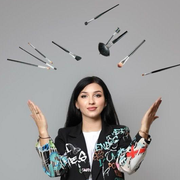
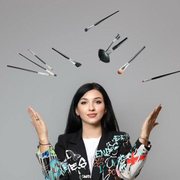
Ikona: razlicica s copici (izbira Darje); potrditveno okno: varnostne besedilne rezerve v 3 jezikih

diff --git a/rezervacija.html b/rezervacija.html
@@ -14,7 +14,7 @@
 <meta property="og:title" content="Rezervacija — Solopova Makeup">
 <meta property="og:description" content="Rezervirajte termin za ličenje, trepalnice, obrvi ali lase v Mariboru.">
 <meta property="og:url" content="https://solopovamakeup.si/rezervacija.html">
-<link rel="stylesheet" href="assets/style.css?v=20261010a">
+<link rel="stylesheet" href="assets/style.css?v=20261010c">
 </head>
 <body>
 <header class="site"><div class="wrap nav">
@@ -74,7 +74,7 @@
   <div data-i18n="foot_note"></div>
   <div><a class="link" href="pogoji.html">Splošni pogoji</a> · <a class="link" href="zasebnost.html">Zasebnost</a> · <a class="link" href="https://www.instagram.com/solopova.makeup/" target="_blank" rel="noopener">Instagram</a> · <a class="link" href="https://wa.me/38669900769" target="_blank" rel="noopener">WhatsApp</a></div>
 </div></footer>
-<script src="assets/i18n.js?v=20261010a"></script>
+<script src="assets/i18n.js?v=20261010c"></script>
 <script>
 var SERVICES = [
  {id:"porocno",dur:90,slug:"porocno-licenje", sl:"Poročno ličenje", en:"Bridal makeup", ru:"Свадебный макияж", price:"90 €", img:"assets/img/porocno-booking.jpg"},
@@ -192,8 +192,14 @@ function showModal(ok,msg){
   var ico=document.getElementById("bm-ico");
   ico.textContent = ok ? "\u2713" : "!";
   ico.className = "modal-ico" + (ok ? "" : " err");
-  document.getElementById("bm-title").textContent = ok ? (t.book_ok_title||"") : (t.book_fail_title||"");
-  document.getElementById("bm-text").textContent = ok ? (t.book_ok_text||"") : (t.book_fail_text||"");
+  var F={
+    sl:{t:"Rezervacija poslana!",x:"Hvala! Prejela sem tvojo zahtevo za:",n:"Kontaktirala te bom za potrditev termina. \u010ce se predomisli\u0161, mi pi\u0161i na WhatsApp.",c:"Zapri",ft:"Nekaj je \u0161lo narobe",fx:"Zahteve nismo mogli poslati samodejno. Pi\u0161i nam na WhatsApp \u2014 uredimo takoj.",w:"Odpri WhatsApp"},
+    en:{t:"Booking request sent!",x:"Thank you! I received your request for:",n:"I will contact you to confirm the appointment. If you change your mind, just message me on WhatsApp.",c:"Close",ft:"Something went wrong",fx:"We could not send your request automatically. Message us on WhatsApp \u2014 we will sort it right away.",w:"Open WhatsApp"},
+    ru:{t:"\u0417\u0430\u044f\u0432\u043a\u0430 \u043e\u0442\u043f\u0440\u0430\u0432\u043b\u0435\u043d\u0430!",x:"\u0421\u043f\u0430\u0441\u0438\u0431\u043e! \u042f \u043f\u043e\u043b\u0443\u0447\u0438\u043b\u0430 \u0432\u0430\u0448\u0443 \u0437\u0430\u044f\u0432\u043a\u0443 \u043d\u0430:",n:"\u0421\u0432\u044f\u0436\u0443\u0441\u044c \u0441 \u0432\u0430\u043c\u0438 \u0434\u043b\u044f \u043f\u043e\u0434\u0442\u0432\u0435\u0440\u0436\u0434\u0435\u043d\u0438\u044f \u0432\u0440\u0435\u043c\u0435\u043d\u0438. \u0415\u0441\u043b\u0438 \u043f\u0435\u0440\u0435\u0434\u0443\u043c\u0430\u0435\u0442\u0435 \u2014 \u043d\u0430\u043f\u0438\u0448\u0438\u0442\u0435 \u043c\u043d\u0435 \u0432 WhatsApp.",c:"\u0417\u0430\u043a\u0440\u044b\u0442\u044c",ft:"\u0427\u0442\u043e-\u0442\u043e \u043f\u043e\u0448\u043b\u043e \u043d\u0435 \u0442\u0430\u043a",fx:"\u041d\u0435 \u0443\u0434\u0430\u043b\u043e\u0441\u044c \u043e\u0442\u043f\u0440\u0430\u0432\u0438\u0442\u044c \u0437\u0430\u044f\u0432\u043a\u0443 \u0430\u0432\u0442\u043e\u043c\u0430\u0442\u0438\u0447\u0435\u0441\u043a\u0438. \u041d\u0430\u043f\u0438\u0448\u0438\u0442\u0435 \u0432 WhatsApp.",w:"\u041e\u0442\u043a\u0440\u044b\u0442\u044c WhatsApp"}
+  };
+  var L=curLang(), f=F[L]||F.sl;
+  document.getElementById("bm-title").textContent = ok ? (t.book_ok_title || f.t) : (t.book_fail_title || f.ft);
+  document.getElementById("bm-text").textContent = ok ? (t.book_ok_text || f.x) : (t.book_fail_text || f.fx);
   var ul=document.getElementById("bm-list"); ul.innerHTML="";
   if(ok && sel && sel.length){
     sel.forEach(function(sv){ var li=document.createElement("li"); li.textContent="\u2022 "+sv[curLang()]+" ("+priceText(sv)+")"; ul.appendChild(li); });
@@ -201,15 +207,15 @@ function showModal(ok,msg){
     if(tm) ul.appendChild(mRow(t.tm,tm));
     if(nm) ul.appendChild(mRow(t.nm,nm));
   }
-  document.getElementById("bm-note").textContent = ok ? (t.book_ok_note||"") : "";
+  document.getElementById("bm-note").textContent = ok ? (t.book_ok_note || f.n) : "";
   var wa=document.getElementById("bm-wa");
   if(ok){ wa.style.display="none"; }
   else {
     wa.style.display="inline-block";
-    wa.textContent = t.book_wa_btn || "WhatsApp";
+    wa.textContent = t.book_wa_btn || f.w;
     wa.setAttribute("href","https://wa.me/"+WA+"?text="+encodeURIComponent(msg||""));
   }
-  document.getElementById("bm-close").textContent = t.book_ok_close || "OK";
+  document.getElementById("bm-close").textContent = t.book_ok_close || f.c;
   m.hidden=false;
   document.body.style.overflow="hidden";
 }

diff --git a/index.html b/index.html
@@ -22,7 +22,7 @@
 {"@context":"https://schema.org","@type":"BeautySalon","name":"Solopova Makeup","description":"Profesionalno ličenje, trepalnice, obrvi in podaljševanje las v Mariboru.","url":"https://solopovamakeup.si/","image":"https://solopovamakeup.si/assets/img/daria-hero.jpg","telephone":"+38669900769","email":"solopova.makeup@gmail.com","address":{"@type":"PostalAddress","streetAddress":"Vodnikov trg 1","postalCode":"2000","addressLocality":"Maribor","addressCountry":"SI"},"areaServed":["Maribor","Ptuj","Slovenija"],"sameAs":["https://www.instagram.com/solopova.makeup/"],"priceRange":"€€","makesOffer":[{"@type":"Offer","itemOffered":{"@type":"Service","name":"Ličenje"}},{"@type":"Offer","itemOffered":{"@type":"Service","name":"Laminacija trepalnic in obrvi"}},{"@type":"Offer","itemOffered":{"@type":"Service","name":"Podaljševanje las"}},{"@type":"Offer","itemOffered":{"@type":"Service","name":"Oblikovanje pričesk"}}]}
 </script>
 
-<link rel="stylesheet" href="assets/style.css?v=20261010a">
+<link rel="stylesheet" href="assets/style.css?v=20261010c">
 </head>
 <body>
 <header class="site"><div class="wrap nav">
@@ -102,7 +102,7 @@
   <div data-i18n="foot_note">© 2026 Solopova Makeup · Maribor</div>
   <div><a class="link" href="pogoji.html">Splošni pogoji</a> · <a class="link" href="zasebnost.html">Zasebnost</a> · <a class="link" href="https://www.instagram.com/solopova.makeup/" target="_blank" rel="noopener">Instagram</a> · <a class="link" href="https://wa.me/38669900769" target="_blank" rel="noopener">WhatsApp</a></div>
 </div></footer>
-<script src="assets/i18n.js?v=20261010a"></script>
+<script src="assets/i18n.js?v=20261010c"></script>
 <script>
 (function(){
   function dragify(el){

diff --git a/galerija.html b/galerija.html
@@ -17,7 +17,7 @@
 <meta property="og:url" content="https://solopovamakeup.si/galerija.html">
 <meta property="og:image" content="https://solopovamakeup.si/assets/img/domov-lasje-1.jpg">
 <meta name="twitter:card" content="summary_large_image">
-<link rel="stylesheet" href="assets/style.css?v=20261010a">
+<link rel="stylesheet" href="assets/style.css?v=20261010c">
 </head>
 <body>
 <header class="site"><div class="wrap nav">
@@ -117,6 +117,6 @@
   <div data-i18n="foot_note">© 2026 Solopova Makeup · Maribor</div>
   <div><a class="link" href="pogoji.html">Splošni pogoji</a> · <a class="link" href="zasebnost.html">Zasebnost</a> · <a class="link" href="https://www.instagram.com/solopova.makeup/" target="_blank" rel="noopener">Instagram</a> · <a class="link" href="https://wa.me/38669900769" target="_blank" rel="noopener">WhatsApp</a></div>
 </div></footer>
-<script src="assets/i18n.js?v=20261010a"></script>
+<script src="assets/i18n.js?v=20261010c"></script>
 </body>
 </html>

diff --git a/tecaji.html b/tecaji.html
@@ -17,7 +17,7 @@
 <meta property="og:url" content="https://solopovamakeup.si/tecaji.html">
 <meta property="og:image" content="https://solopovamakeup.si/assets/img/domov-licenje-1.jpg">
 <meta name="twitter:card" content="summary_large_image">
-<link rel="stylesheet" href="assets/style.css?v=20261010a">
+<link rel="stylesheet" href="assets/style.css?v=20261010c">
 </head>
 <body>
 <header class="site"><div class="wrap nav">
@@ -106,6 +106,6 @@
   <div data-i18n="foot_note">© 2026 Solopova Makeup · Maribor</div>
   <div><a class="link" href="pogoji.html">Splošni pogoji</a> · <a class="link" href="zasebnost.html">Zasebnost</a> · <a class="link" href="https://www.instagram.com/solopova.makeup/" target="_blank" rel="noopener">Instagram</a> · <a class="link" href="https://wa.me/38669900769" target="_blank" rel="noopener">WhatsApp</a></div>
 </div></footer>
-<script src="assets/i18n.js?v=20261010a"></script>
+<script src="assets/i18n.js?v=20261010c"></script>
 </body>
 </html>

diff --git a/tecaj.html b/tecaj.html
@@ -17,7 +17,7 @@
 <meta property="og:url" content="https://solopovamakeup.si/tecaj.html">
 <meta property="og:image" content="https://solopovamakeup.si/assets/img/domov-licenje-1.jpg">
 <meta name="twitter:card" content="summary_large_image">
-<link rel="stylesheet" href="assets/style.css?v=20261010a">
+<link rel="stylesheet" href="assets/style.css?v=20261010c">
 </head>
 <body>
 <header class="site"><div class="wrap nav">
@@ -139,6 +139,6 @@
   <div data-i18n="foot_note">© 2026 Solopova Makeup · Maribor</div>
   <div><a class="link" href="pogoji.html">Splošni pogoji</a> · <a class="link" href="zasebnost.html">Zasebnost</a> · <a class="link" href="https://www.instagram.com/solopova.makeup/" target="_blank" rel="noopener">Instagram</a> · <a class="link" href="https://wa.me/38669900769" target="_blank" rel="noopener">WhatsApp</a></div>
 </div></footer>
-<script src="assets/i18n.js?v=20261010a"></script>
+<script src="assets/i18n.js?v=20261010c"></script>
 </body>
 </html>

diff --git a/storitve.html b/storitve.html
@@ -17,7 +17,7 @@
 <meta property="og:url" content="https://solopovamakeup.si/storitve.html">
 <meta property="og:image" content="https://solopovamakeup.si/assets/img/domov-lasje-1.jpg">
 <meta name="twitter:card" content="summary_large_image">
-<link rel="stylesheet" href="assets/style.css?v=20261010a">
+<link rel="stylesheet" href="assets/style.css?v=20261010c">
 </head>
 <body>
 <header class="site"><div class="wrap nav">
@@ -78,6 +78,6 @@
   <div data-i18n="foot_note">© 2026 Solopova Makeup · Maribor</div>
   <div><a class="link" href="pogoji.html">Splošni pogoji</a> · <a class="link" href="zasebnost.html">Zasebnost</a> · <a class="link" href="https://www.instagram.com/solopova.makeup/" target="_blank" rel="noopener">Instagram</a> · <a class="link" href="https://wa.me/38669900769" target="_blank" rel="noopener">WhatsApp</a></div>
 </div></footer>
-<script src="assets/i18n.js?v=20261010a"></script>
+<script src="assets/i18n.js?v=20261010c"></script>
 </body>
 </html>

diff --git a/kontakt.html b/kontakt.html
@@ -17,7 +17,7 @@
 <meta property="og:url" content="https://solopovamakeup.si/kontakt.html">
 <meta property="og:image" content="https://solopovamakeup.si/assets/img/domov-lasje-1.jpg">
 <meta name="twitter:card" content="summary_large_image">
-<link rel="stylesheet" href="assets/style.css?v=20261010a">
+<link rel="stylesheet" href="assets/style.css?v=20261010c">
 </head>
 <body>
 <header class="site"><div class="wrap nav">
@@ -57,6 +57,6 @@
   <div data-i18n="foot_note">© 2026 Solopova Makeup · Maribor</div>
   <div><a class="link" href="pogoji.html">Splošni pogoji</a> · <a class="link" href="zasebnost.html">Zasebnost</a> · <a class="link" href="https://www.instagram.com/solopova.makeup/" target="_blank" rel="noopener">Instagram</a> · <a class="link" href="https://wa.me/38669900769" target="_blank" rel="noopener">WhatsApp</a></div>
 </div></footer>
-<script src="assets/i18n.js?v=20261010a"></script>
+<script src="assets/i18n.js?v=20261010c"></script>
 </body>
 </html>

diff --git a/pogoji.html b/pogoji.html
@@ -11,7 +11,7 @@
 <meta name="description" content="Splošni pogoji poslovanja za nakup spletnega tečaja ličenja.">
 <meta name="robots" content="index, follow">
 <link rel="canonical" href="https://solopovamakeup.si/pogoji.html">
-<link rel="stylesheet" href="assets/style.css?v=20261010a">
+<link rel="stylesheet" href="assets/style.css?v=20261010c">
 </head>
 <body>
 <header class="site"><div class="wrap nav">
@@ -74,6 +74,6 @@
   <div data-i18n="foot_note">© 2026 Solopova Makeup · Maribor</div>
   <div><a class="link" href="pogoji.html">Splošni pogoji</a> · <a class="link" href="zasebnost.html">Zasebnost</a> · <a class="link" href="https://www.instagram.com/solopova.makeup/" target="_blank" rel="noopener">Instagram</a> · <a class="link" href="https://wa.me/38669900769" target="_blank" rel="noopener">WhatsApp</a></div>
 </div></footer>
-<script src="assets/i18n.js?v=20261010a"></script>
+<script src="assets/i18n.js?v=20261010c"></script>
 </body>
 </html>

diff --git a/zasebnost.html b/zasebnost.html
@@ -11,7 +11,7 @@
 <meta name="description" content="Politika zasebnosti: kako obdelujemo osebne podatke.">
 <meta name="robots" content="index, follow">
 <link rel="canonical" href="https://solopovamakeup.si/zasebnost.html">
-<link rel="stylesheet" href="assets/style.css?v=20261010a">
+<link rel="stylesheet" href="assets/style.css?v=20261010c">
 </head>
 <body>
 <header class="site"><div class="wrap nav">
@@ -92,6 +92,6 @@
   <div data-i18n="foot_note">© 2026 Solopova Makeup · Maribor</div>
   <div><a class="link" href="pogoji.html">Splošni pogoji</a> · <a class="link" href="zasebnost.html">Zasebnost</a> · <a class="link" href="https://www.instagram.com/solopova.makeup/" target="_blank" rel="noopener">Instagram</a> · <a class="link" href="https://wa.me/38669900769" target="_blank" rel="noopener">WhatsApp</a></div>
 </div></footer>
-<script src="assets/i18n.js?v=20261010a"></script>
+<script src="assets/i18n.js?v=20261010c"></script>
 </body>
 </html>
